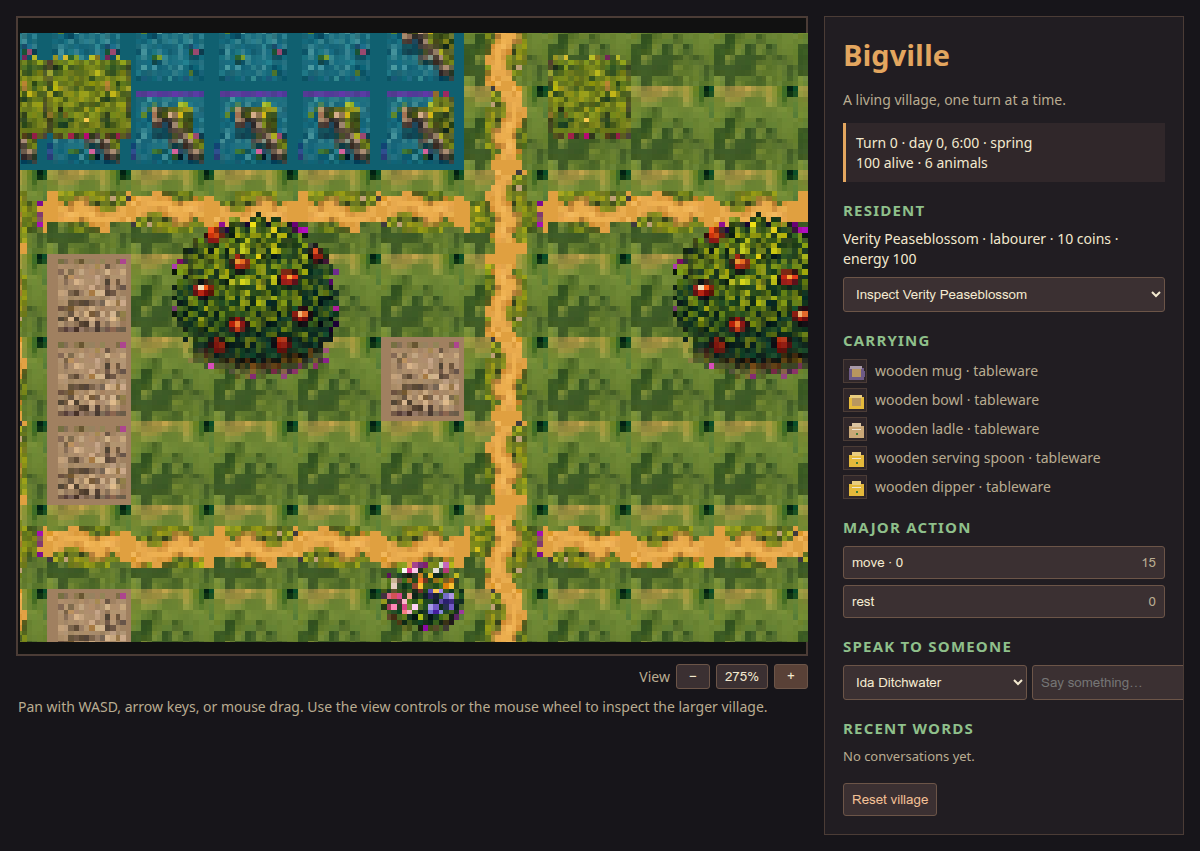
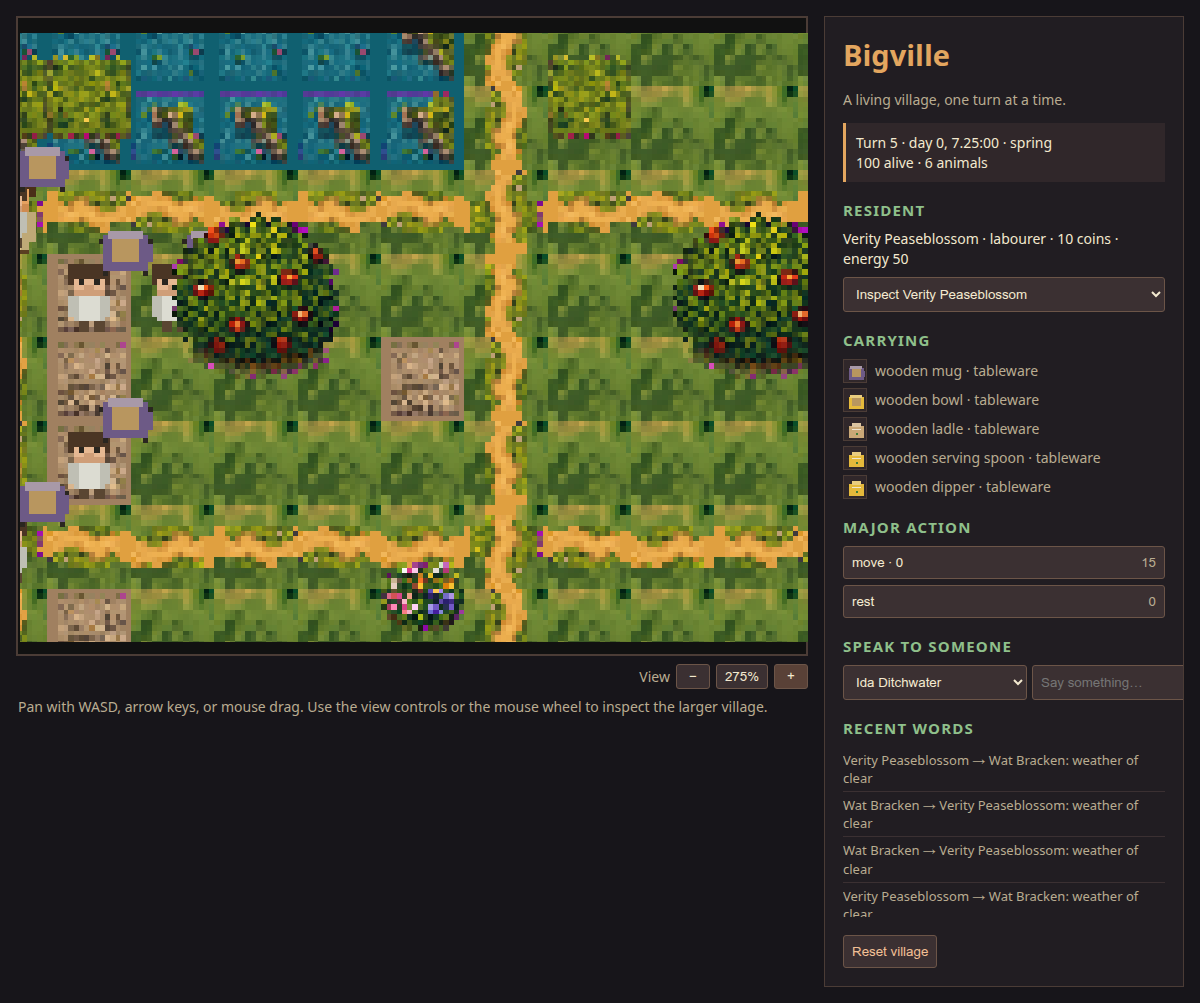
Add matching roof-off building cutaways

diff --git a/bigville/game/game.js b/bigville/game/game.js
@@ -207,6 +207,7 @@ class BigvilleScene extends Phaser.Scene {
     this.load.spritesheet('large_props', 'assets/style_large_props.png', {frameWidth: 32, frameHeight: 32});
     this.load.spritesheet('buildings', 'assets/buildings.png', {frameWidth: 48, frameHeight: 48});
     this.load.spritesheet('style_buildings', 'assets/style_buildings.png', {frameWidth: 96, frameHeight: 96});
+    this.load.spritesheet('style_cutaways', 'assets/style_cutaways.png', {frameWidth: 96, frameHeight: 96});
     this.load.spritesheet('building_interiors', 'assets/building_interiors.png', {frameWidth: 48, frameHeight: 48});
     this.load.spritesheet('building_parts', 'assets/building_parts.png', {frameWidth: TILE, frameHeight: TILE});
     this.load.spritesheet('building_badges', 'assets/building_badges.png', {frameWidth: TILE, frameHeight: TILE});
@@ -470,6 +471,14 @@ class BigvilleScene extends Phaser.Scene {
       if (roofOn && styleFrame !== undefined) {
         const sprite = this.add.sprite(px + width * cellWidth / 2,
           py + height * cellWidth / 2, 'style_buildings', styleFrame)
+          .setDepth(this.depthAt(x + width / 2, y + height, 20));
+        this.objects.push(sprite);
+        return;
+      }
+      const cutawayFrame = this.styleManifest?.cutaways?.sprites?.[building.type];
+      if (!roofOn && cutawayFrame !== undefined) {
+        const sprite = this.add.sprite(px + width * cellWidth / 2,
+          py + height * cellWidth / 2, 'style_cutaways', cutawayFrame)
           .setDepth(this.depthAt(x + width / 2, y + height, 20));
         this.objects.push(sprite);
         return;

diff --git a/tools/build_style_assets.py b/tools/build_style_assets.py
@@ -253,19 +253,36 @@ def build_buildings(manifest: dict, buildings_sheet: Image.Image) -> dict:
     return sprites
 
 
+def build_cutaways(manifest: dict, cutaway_sheet: Image.Image) -> dict:
+    """Build roof-off companions with the same footprint and facade scale."""
+    cells = [grid_cell(cutaway_sheet, 3, 2, i) for i in range(6)]
+    names = list(manifest["buildings"]["sprites"])
+    sheet = Image.new("RGBA", (BUILDING * len(names), BUILDING), (0, 0, 0, 0))
+    sprites = {}
+    for i, name in enumerate(names):
+        frame = fit_sprite(cells[i % len(cells)], (BUILDING, BUILDING), pad=2, bottom=True)
+        sheet.alpha_composite(frame, (i * BUILDING, 0))
+        sprites[name] = i
+    sheet.save(ASSETS / "style_cutaways.png")
+    return sprites
+
+
 def main() -> None:
     manifest = json.loads((ASSETS / "manifest.json").read_text())
     terrain = Image.open(ASSETS / "style_terrain_atlas_source.png")
     buildings = Image.open(ASSETS / "style_building_atlas_source.png")
+    cutaways = Image.open(ASSETS / "style_cutaway_atlas_source.png")
     old_tiles = Image.open(ASSETS / "tileset.png")
     reference = Image.open(ASSETS / "style_source_village.png").convert("RGB")
     path_variants = build_tiles(manifest, terrain, reference, old_tiles)
     prop_sprites = build_props(terrain)
     sprites = build_buildings(manifest, buildings)
+    cutaway_sprites = build_cutaways(manifest, cutaways)
     out_manifest = {
         "source": "style_source_village.png",
         "terrain_source": "style_terrain_atlas_source.png",
         "building_source": "style_building_atlas_source.png",
+        "cutaway_source": "style_cutaway_atlas_source.png",
         "tiles": {"file": "style_tiles.png", "frame": TILE,
                   "tiles": manifest["tileset"]["tiles"]},
         "path_variants": path_variants,
@@ -274,6 +291,8 @@ def main() -> None:
                         "sprites": {"tree": 0, "bush": 1}},
         "buildings": {"file": "style_buildings.png", "frame": BUILDING,
                       "sprites": sprites},
+        "cutaways": {"file": "style_cutaways.png", "frame": BUILDING,
+                     "sprites": cutaway_sprites},
     }
     (ASSETS / "style_manifest.json").write_text(json.dumps(out_manifest, indent=2) + "\n")
     print("wrote style_tiles.png style_props.png style_large_props.png style_buildings.png style_manifest.json")

diff --git a/tests/test_bigville_server.py b/tests/test_bigville_server.py
@@ -29,6 +29,7 @@ def test_game_assets_are_present():
                          "assets/style_building_atlas_source.png",
                          "assets/style_tiles.png", "assets/style_props.png",
                          "assets/style_large_props.png", "assets/style_buildings.png",
+                         "assets/style_cutaway_atlas_source.png", "assets/style_cutaways.png",
                          "assets/style_manifest.json"):
             assert (GAME_ROOT / filename).is_file(), filename
 
@@ -47,6 +48,7 @@ def test_asset_manifest_covers_entity_items_and_modular_buildings():
     assert manifest["rendering"]["display_scale"] == 2
     assert manifest["style_reference"] == "stardew_like_art_direction.png"
     assert manifest["style_assets"]["source_reference"] == "style_source_village.png"
+    assert manifest["style_assets"]["cutaway_source"] == "style_cutaway_atlas_source.png"
     style = json.loads((GAME_ROOT / "assets/style_manifest.json").read_text())
     assert style["tiles"]["file"] == "style_tiles.png"
     assert len(style["path_variants"]) == 16
@@ -57,6 +59,8 @@ def test_asset_manifest_covers_entity_items_and_modular_buildings():
                for frames in style["path_variants"].values() for frame in frames)
     assert {"tree", "bush"} <= set(style["large_props"]["sprites"])
     assert style["buildings"]["file"] == "style_buildings.png"
+    assert style["cutaways"]["file"] == "style_cutaways.png"
+    assert set(entities.BUILDINGS) <= set(style["cutaways"]["sprites"])
     assert len(manifest["terrain"]["transition_masks"]["path"]) == 16
     assert len(manifest["terrain"]["transition_masks"]["water"]) == 16
     assert {"tree", "flower_clump", "bush", "reed", "bench"} <= set(manifest["terrain"]["props"])

diff --git a/bigville/game/assets/generate_assets.py b/bigville/game/assets/generate_assets.py
@@ -1022,6 +1022,7 @@ def main():
             "source_reference": "style_source_village.png",
             "terrain_source": "style_terrain_atlas_source.png",
             "building_source": "style_building_atlas_source.png",
+            "cutaway_source": "style_cutaway_atlas_source.png",
             "manifest": "style_manifest.json",
             "builder": "tools/build_style_assets.py",
             "runtime_note": "the original village scene is reference-only; clients assemble transparent props, facades, and opaque terrain frames",

diff --git a/docs/GAME_ART_DESIGN.md b/docs/GAME_ART_DESIGN.md
@@ -81,7 +81,9 @@ paths, water edges, and prop placement. It is never used as a runtime
 backdrop. The terrain and building source sheets are converted by
 `tools/build_style_assets.py` into assembled runtime atlases:
 `style_tiles.png`, `style_props.png`, `style_large_props.png`, and
-`style_buildings.png`, described by `style_manifest.json`. This keeps the
+`style_buildings.png`, plus the matching roof-off `style_cutaways.png`,
+described by `style_manifest.json`. Cutaways retain the facade, foundation,
+door, and exterior trim while exposing the furnished room. This keeps the
 original visual language while allowing every scenario to provide a different
 map and building arrangement. `stardew_like_art_direction.png`,
 `pixel_art_art_direction.png`, and `terrain_art_direction.png` remain useful

diff --git a/README.md b/README.md
@@ -75,7 +75,9 @@ the original village rendering is preserved as a reference at
 [`bigville/game/assets/style_source_village.png`](bigville/game/assets/style_source_village.png),
 but it is not drawn as a backdrop. `tools/build_style_assets.py` turns the
 reference language into assembled terrain, transitions, props, and building
-facades, so scenarios can use different maps with the same cosy visual style.
+facades. It also includes matching roof-off cutaway facades with furnished
+interiors, so scenarios can use different maps with the same cosy visual style
+without falling back to a separate interior art language.
 
 ## Cognition backends
 
